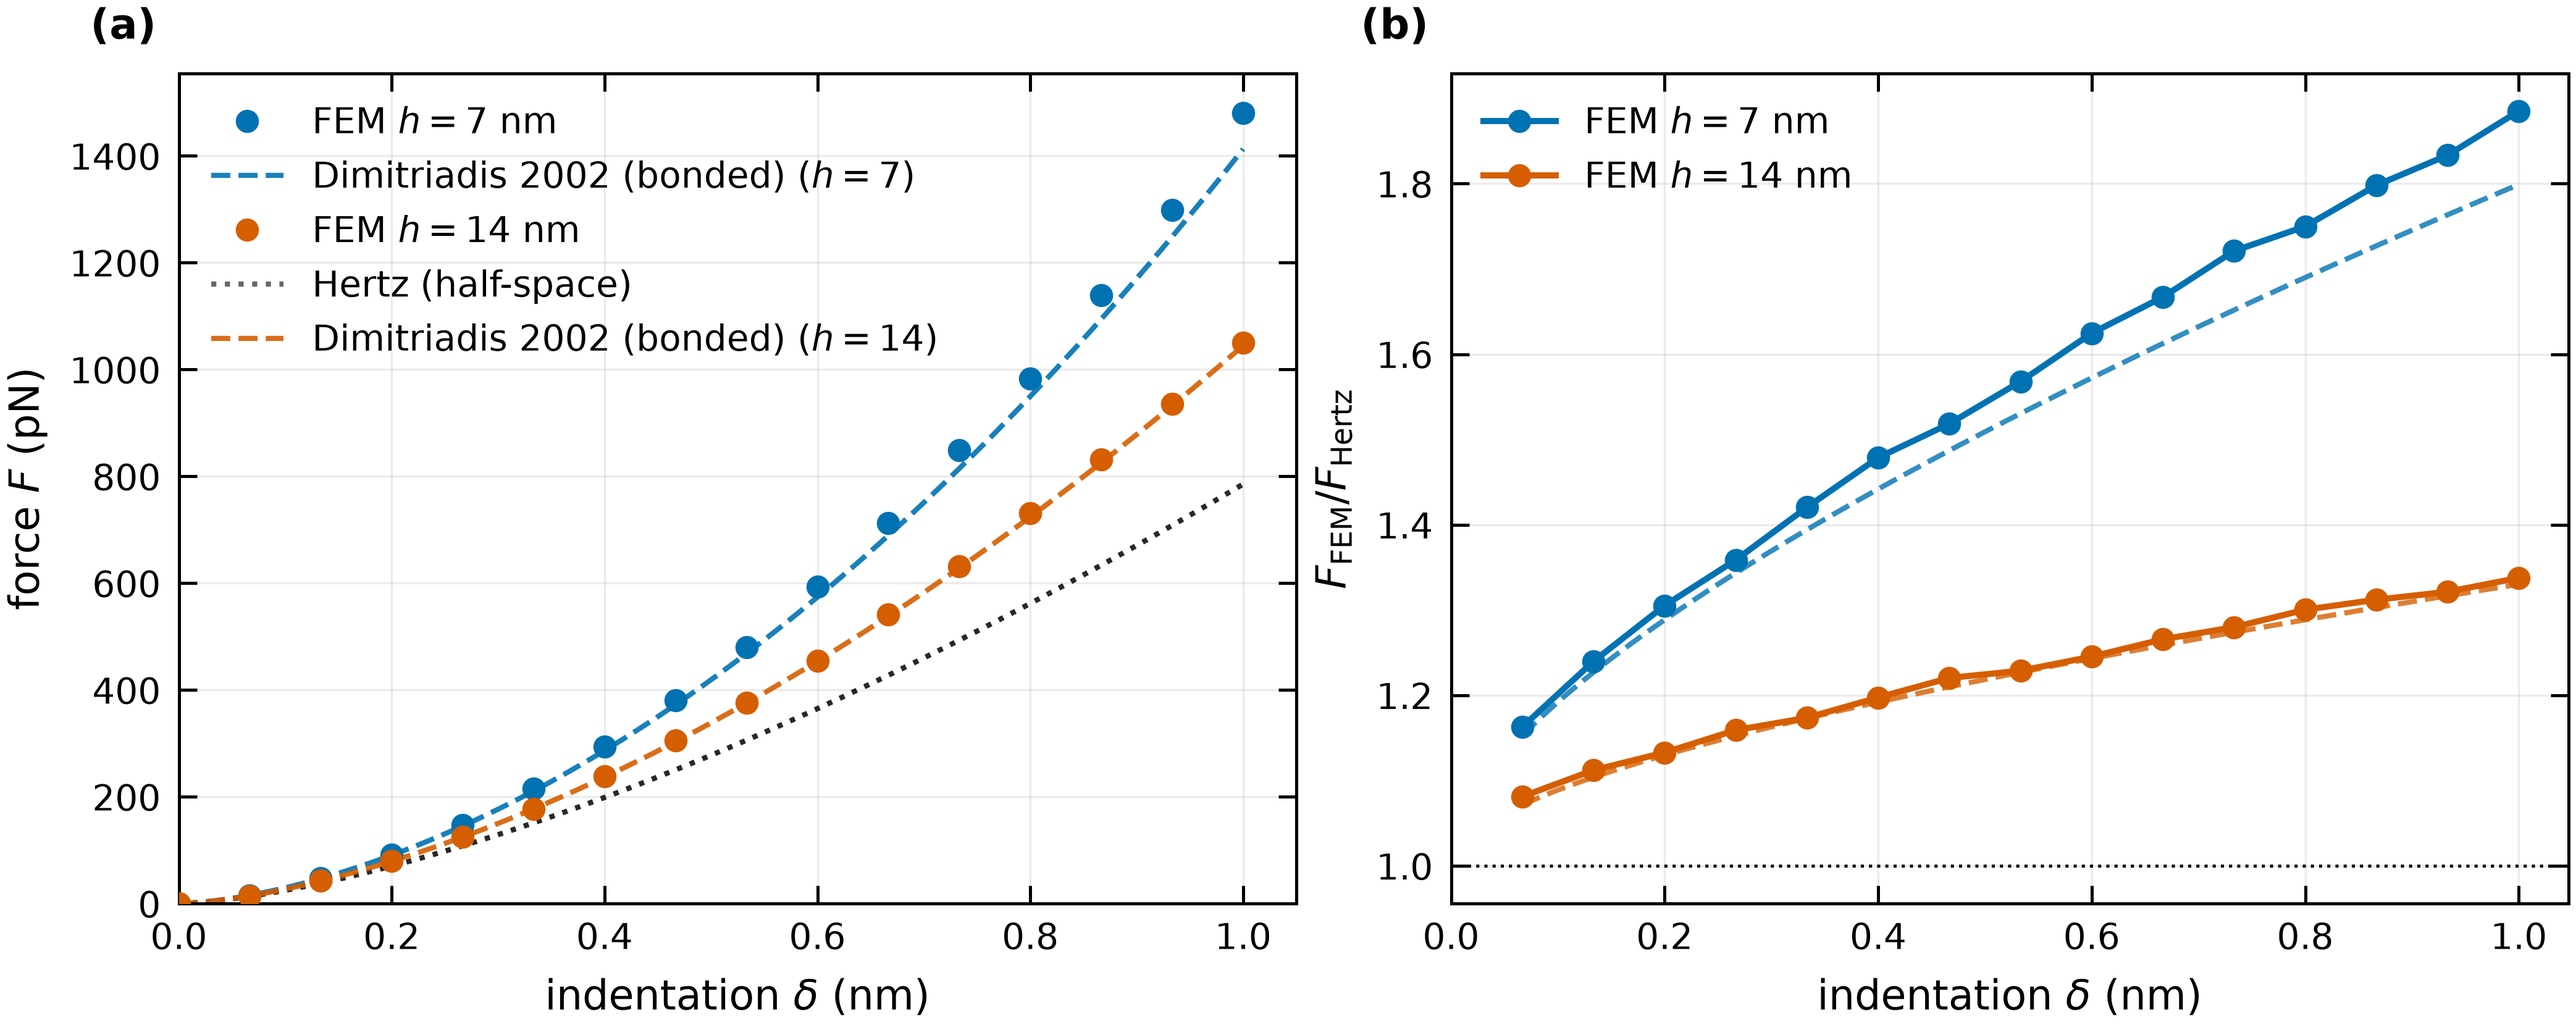
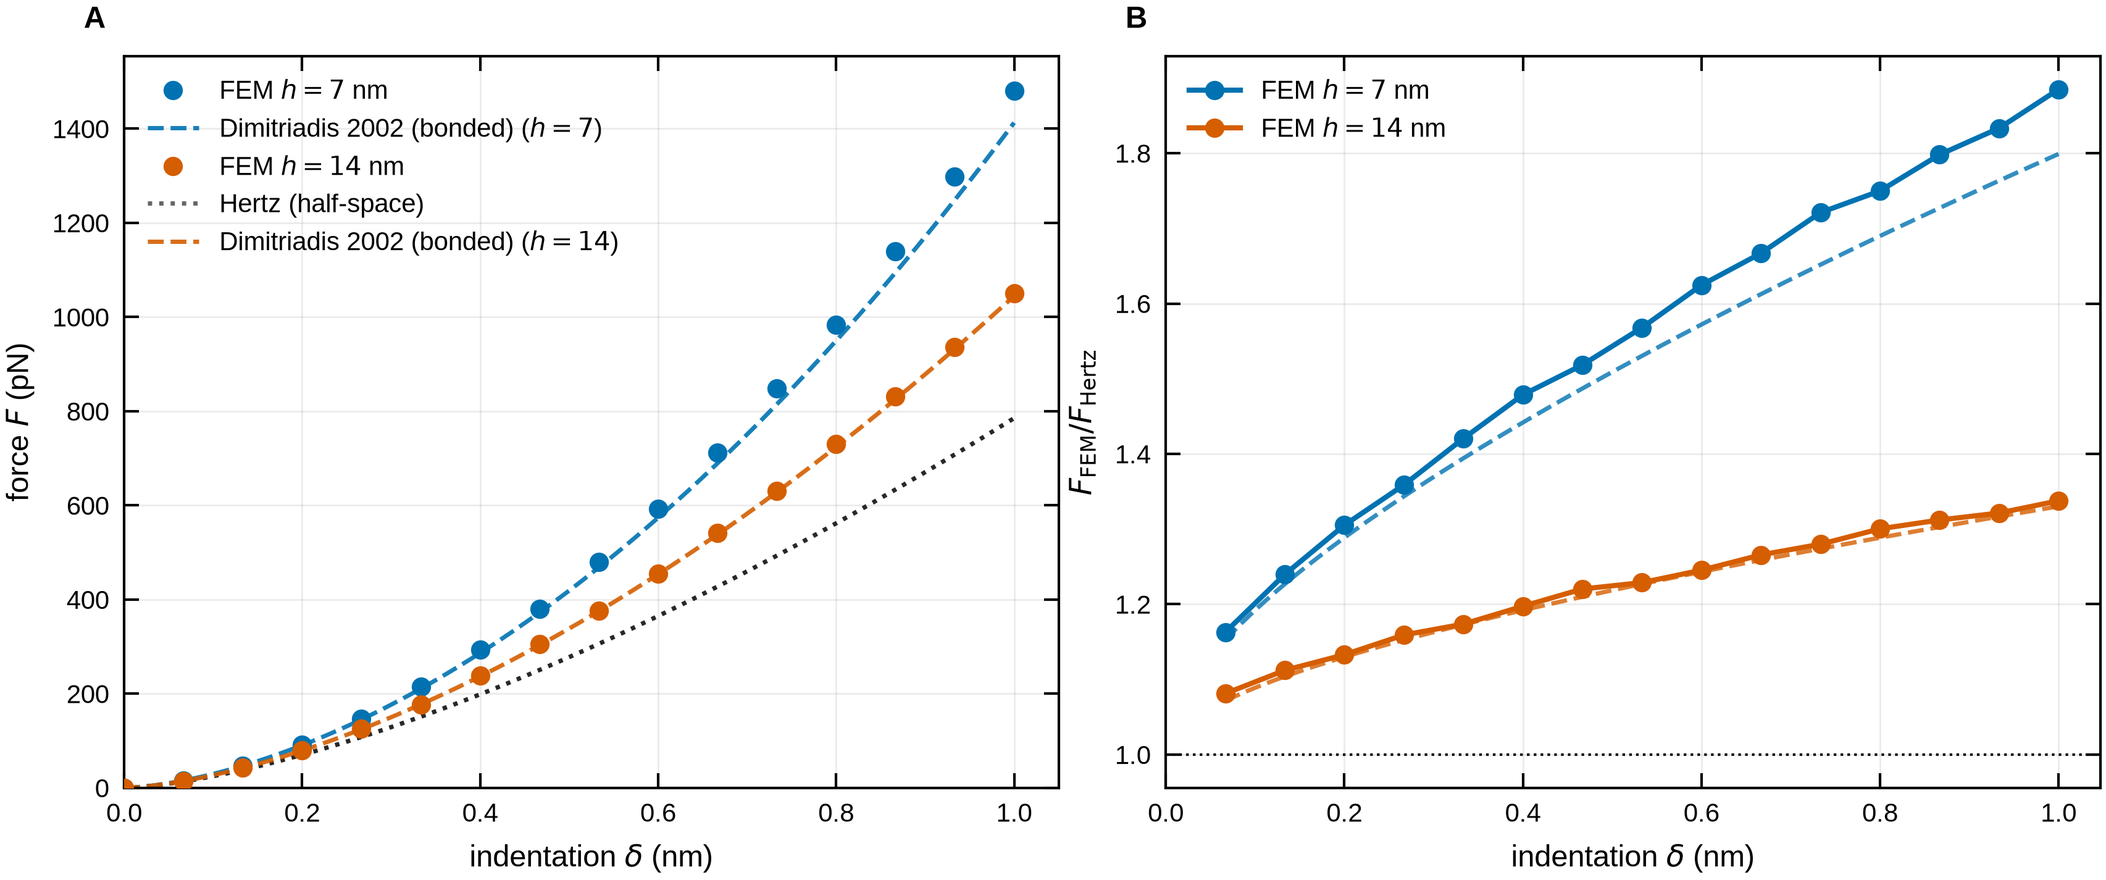
Add journal presets to plotting; default to Biophysical Journal style
plotting.py now carries per-journal figure specifications (JOURNAL_PRESETS)
and defaults to Biophysical Journal (Cell Press): Arial font (falling back
to metric-identical Liberation Sans where Arial is absent), 7 pt base type,
uppercase bold panel letters, and 85 / 114 / 174 mm column widths.

New helpers: set_publication_style(journal=...), journal_widths(journal),
and panel_label(ax, index) which renders "A"/"B" for Cell Press or "(a)"/"(b)"
for the generic preset. publication_figure.py grows --journal / --width flags.

Adds preset/panel-label tests; fast suite now 47 passing.

diff --git a/src/nanoindent/plotting.py b/src/nanoindent/plotting.py
@@ -44,27 +44,95 @@ OKABE_ITO = {
 }
 _CYCLE = ["#0072B2", "#D55E00", "#009E73", "#CC79A7", "#E69F00", "#56B4E9"]
 
-# Physical column widths in inches.
+# Physical column widths in inches (generic defaults).
 SINGLE_COLUMN = 3.4
 DOUBLE_COLUMN = 7.0
 
+# Per-journal figure specifications. Widths are in inches (1 mm = 1/25.4 in).
+# ``panel_case`` controls how panel tags are rendered: "upper" -> "A", "B"
+# (Cell Press style), "lower_paren" -> "(a)", "(b)".
+JOURNAL_PRESETS = {
+    # Biophysical Journal (Cell Press / Elsevier): Arial, uppercase bold panel
+    # letters, columns 85 / 114 / 174 mm, min line ~0.5 pt, >=300 dpi raster.
+    "biophysical_journal": {
+        # Arial is the BJ requirement; Liberation Sans is metric-identical to
+        # Arial and is the automatic fallback on Linux systems without Arial.
+        "sans_serif": ["Arial", "Liberation Sans", "Helvetica", "DejaVu Sans"],
+        "family": "sans-serif",
+        "font_size": 7,
+        "single_column": 85 / 25.4,     # ~3.35 in
+        "onehalf_column": 114 / 25.4,   # ~4.49 in
+        "double_column": 174 / 25.4,    # ~6.85 in
+        "panel_case": "upper",
+        "savefig_dpi": 500,
+    },
+    # A neutral generic preset (the previous default behaviour).
+    "generic": {
+        "sans_serif": ["DejaVu Sans", "Arial", "Helvetica"],
+        "family": "sans-serif",
+        "font_size": 8,
+        "single_column": SINGLE_COLUMN,
+        "onehalf_column": 5.0,
+        "double_column": DOUBLE_COLUMN,
+        "panel_case": "lower_paren",
+        "savefig_dpi": 600,
+    },
+}
 
-def set_publication_style(font_size: int = 8, family: str = "sans-serif") -> None:
-    """Apply a journal-friendly matplotlib style (idempotent).
+# Active preset state, updated by set_publication_style().
+_ACTIVE = dict(JOURNAL_PRESETS["generic"])
 
-    Small base font (8 pt) matches a figure printed at column width; line
-    widths and tick sizes are scaled to look correct at that size.
+
+def journal_widths(journal: str = "biophysical_journal") -> dict:
+    """Return the ``single/onehalf/double`` column widths (inches) for a
+    journal preset, e.g. for sizing a figure explicitly."""
+    p = JOURNAL_PRESETS[journal]
+    return {
+        "single": p["single_column"],
+        "onehalf": p["onehalf_column"],
+        "double": p["double_column"],
+    }
+
+
+def set_publication_style(font_size: Optional[int] = None,
+                          family: Optional[str] = None,
+                          journal: str = "biophysical_journal") -> None:
+    """Apply a journal-specific matplotlib style (idempotent).
+
+    Parameters
+    ----------
+    journal:
+        Preset key from :data:`JOURNAL_PRESETS` (default
+        ``"biophysical_journal"``: Arial, 7 pt, uppercase panel letters).
+    font_size, family:
+        Optional overrides of the preset's base font size and family.
+
+    The chosen preset also updates the module-level column-width constants and
+    the panel-label convention used by :func:`panel_label`.
     """
     import matplotlib as mpl
 
+    global _ACTIVE, SINGLE_COLUMN, DOUBLE_COLUMN
+    preset = dict(JOURNAL_PRESETS.get(journal, JOURNAL_PRESETS["generic"]))
+    _ACTIVE = preset
+    if font_size is None:
+        font_size = preset["font_size"]
+    if family is None:
+        family = preset["family"]
+
+    # Expose the preset widths through the module-level constants.
+    SINGLE_COLUMN = preset["single_column"]
+    DOUBLE_COLUMN = preset["double_column"]
+
     mpl.rcParams.update({
         "figure.dpi": 150,
-        "savefig.dpi": 600,
+        "savefig.dpi": preset["savefig_dpi"],
         "savefig.bbox": "tight",
         "savefig.pad_inches": 0.02,
         "pdf.fonttype": 42,        # embed TrueType (editable text, not paths)
         "ps.fonttype": 42,
         "font.family": family,
+        "font.sans-serif": preset["sans_serif"],
         "font.size": font_size,
         "axes.titlesize": font_size,
         "axes.labelsize": font_size,
@@ -86,6 +154,25 @@ def set_publication_style(font_size: int = 8, family: str = "sans-serif") -> Non
     })
 
 
+def panel_label(ax, index_or_letter, x: float = -0.02, y: float = 1.03) -> None:
+    """Add a bold panel label to ``ax`` in the active journal's convention.
+
+    ``index_or_letter`` may be an integer (0 -> first panel) or an explicit
+    letter. Cell Press journals (e.g. Biophysical Journal) use uppercase
+    letters ``A, B, ...``; the generic preset uses ``(a), (b), ...``.
+    """
+    if isinstance(index_or_letter, int):
+        letter = chr(ord("a") + index_or_letter)
+    else:
+        letter = str(index_or_letter)
+    if _ACTIVE.get("panel_case") == "upper":
+        text = letter.upper()
+    else:
+        text = f"({letter.lower()})"
+    ax.text(x, y, text, transform=ax.transAxes, fontweight="bold",
+            va="bottom", ha="right")
+
+
 def _new_fig(width: float = SINGLE_COLUMN, height: Optional[float] = None,
              ncols: int = 1, nrows: int = 1):
     import matplotlib.pyplot as plt
@@ -94,11 +181,6 @@ def _new_fig(width: float = SINGLE_COLUMN, height: Optional[float] = None,
     fig, axes = plt.subplots(nrows, ncols, figsize=(width, height),
                              squeeze=False)
     return fig, axes
-
-
-def _panel_label(ax, label: str) -> None:
-    ax.text(-0.02, 1.02, label, transform=ax.transAxes,
-            fontweight="bold", va="bottom", ha="right")
 
 
 def plot_force_curves(

diff --git a/examples/publication_figure.py b/examples/publication_figure.py
@@ -27,6 +27,10 @@ def main() -> None:
     ap = argparse.ArgumentParser()
     ap.add_argument("--outdir", default="figures")
     ap.add_argument("--formats", nargs="+", default=["pdf", "png"])
+    ap.add_argument("--journal", default="biophysical_journal",
+                    help="figure style preset (see plotting.JOURNAL_PRESETS)")
+    ap.add_argument("--width", default="double",
+                    choices=["single", "onehalf", "double"])
     args = ap.parse_args()
     os.makedirs(args.outdir, exist_ok=True)
 
@@ -40,19 +44,18 @@ def main() -> None:
             warnings.simplefilter("ignore")
             curves[h] = IndentationSolver(cfg).run()
 
-    plotting.set_publication_style(font_size=8)
+    plotting.set_publication_style(journal=args.journal)
+    width = plotting.journal_widths(args.journal)[args.width]
     import matplotlib.pyplot as plt
-    fig, axes = plt.subplots(1, 2, figsize=(plotting.DOUBLE_COLUMN, 2.8))
+    fig, axes = plt.subplots(1, 2, figsize=(width, width * 0.42))
 
     plotting.plot_force_curves(
         curves, compare=["hertz", "dimitriadis_bonded"], ax=axes[0])
     plotting.plot_stiffening_ratio(
         curves, compare=["dimitriadis_bonded"], ax=axes[1])
 
-    axes[0].text(-0.02, 1.03, "(a)", transform=axes[0].transAxes,
-                 fontweight="bold", ha="right", va="bottom")
-    axes[1].text(-0.02, 1.03, "(b)", transform=axes[1].transAxes,
-                 fontweight="bold", ha="right", va="bottom")
+    plotting.panel_label(axes[0], 0)   # "A" for Cell Press, "(a)" generic
+    plotting.panel_label(axes[1], 1)   # "B" / "(b)"
 
     stem = os.path.join(args.outdir, "bottom_effect")
     written = plotting.save_figure(fig, stem, formats=args.formats)

diff --git a/tests/test_plotting.py b/tests/test_plotting.py
@@ -27,6 +27,29 @@ def test_set_style_idempotent():
     assert mpl.rcParams["pdf.fonttype"] == 42
 
 
+def test_biophysical_journal_preset():
+    plotting.set_publication_style(journal="biophysical_journal")
+    import matplotlib as mpl
+    # Arial-first font stack, 7 pt base, ~85/174 mm columns.
+    assert mpl.rcParams["font.sans-serif"][0] == "Arial"
+    assert mpl.rcParams["font.size"] == 7
+    w = plotting.journal_widths("biophysical_journal")
+    assert w["single"] == pytest.approx(85 / 25.4, rel=1e-6)
+    assert w["double"] == pytest.approx(174 / 25.4, rel=1e-6)
+
+
+def test_panel_label_case_by_journal():
+    import matplotlib.pyplot as plt
+    fig, ax = plt.subplots()
+    plotting.set_publication_style(journal="biophysical_journal")
+    plotting.panel_label(ax, 0)
+    assert any(t.get_text() == "A" for t in ax.texts)      # Cell Press uppercase
+    fig2, ax2 = plt.subplots()
+    plotting.set_publication_style(journal="generic")
+    plotting.panel_label(ax2, 0)
+    assert any(t.get_text() == "(a)" for t in ax2.texts)   # generic lowercase
+
+
 def test_plot_force_curves_runs():
     curves = {7.0: _fake_curve(7.0), 14.0: _fake_curve(14.0)}
     fig = plotting.plot_force_curves(curves, compare=["hertz", "dimitriadis_bonded"])

diff --git a/README.md b/README.md
@@ -36,9 +36,9 @@ agreement with the bonded Dimitriadis 2002 correction:
 
 ![bottom effect](docs/bottom_effect.png)
 
-*Journal-ready figure generated by `examples/publication_figure.py`: (a) F(δ)
-for h = 7 / 14 nm — FEM (markers) vs. Hertz (dotted) and the bonded Dimitriadis
-2002 correction (dashed); (b) the stiffening ratio F/F_Hertz.*
+*Biophysical Journal-style figure from `examples/publication_figure.py`:
+(A) F(δ) for h = 7 / 14 nm — FEM (markers) vs. Hertz (dotted) and the bonded
+Dimitriadis 2002 correction (dashed); (B) the stiffening ratio F/F_Hertz.*
 
 ---
 
@@ -104,17 +104,24 @@ python examples/publication_figure.py           # journal-ready multi-panel figu
 ### Publication-quality figures
 
 `nanoindent.plotting` produces journal-ready figures: **vector output**
-(PDF / SVG / EPS) plus 600-dpi PNG, a **colour-blind-safe** Okabe-Ito palette,
-correct single-/double-column physical widths, embedded (editable) fonts, and
-minimal chartjunk.
+(PDF / SVG / EPS) plus high-dpi PNG, a **colour-blind-safe** Okabe-Ito palette,
+embedded (editable) fonts, and minimal chartjunk. **Journal presets** set the
+right font, panel-label convention, and physical column widths — the default is
+**Biophysical Journal** (Cell Press: Arial, 7 pt, uppercase bold panel letters,
+85 / 114 / 174 mm columns; Arial falls back to metric-identical Liberation Sans
+on systems without it).
 
 ```python
 from nanoindent import plotting
-plotting.set_publication_style()                 # journal typography & ticks
+plotting.set_publication_style(journal="biophysical_journal")   # or "generic"
+w = plotting.journal_widths("biophysical_journal")["double"]    # 174 mm in inches
 fig = plotting.plot_force_curves({7.0: c7, 14.0: c14},
                                  compare=["hertz", "dimitriadis_bonded"])
+plotting.panel_label(fig.axes[0], 0)             # "A" (Cell Press) / "(a)" generic
 plotting.save_figure(fig, "figures/fig2", formats=("pdf", "png", "svg"))
 ```
+
+Add a journal by dropping an entry in `plotting.JOURNAL_PRESETS`.
 
 Available plotters: `plot_force_curves`, `plot_stiffening_ratio`,
 `plot_modulus_recovery`, `plot_convergence`, plus `save_figure` (multi-format)
